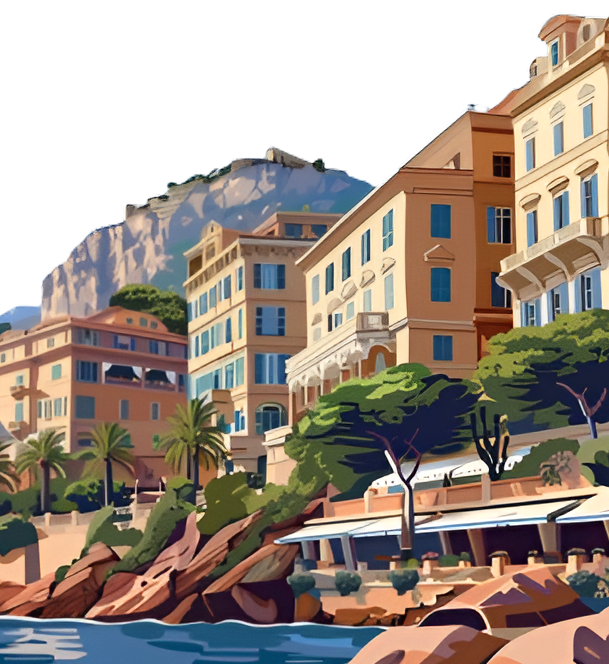
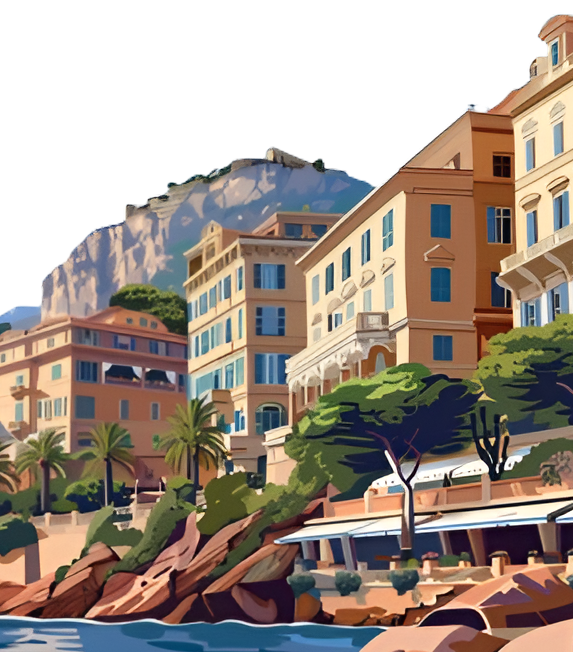
optimize the images size

diff --git a/src/components/City.tsx b/src/components/City.tsx
@@ -1,6 +1,14 @@
 "use client"
+import { Press_Start_2P } from 'next/font/google';
 import Image from 'next/image';
 import React, { useEffect, useRef } from 'react';
+
+const orbitron = Press_Start_2P({
+  weight: ["400"],
+  style: ["normal"],
+  subsets: ["latin"],
+})
+
 
 export const City = () => {
 
@@ -72,7 +80,7 @@ export const City = () => {
       <div className='hidden md:flex flex-col items-center justify-center w-full'>
         <Image
           ref={cityDesktop}
-          src={require("@/assets/monaco.png")}
+          src={require("@/assets/monaco.webp")}
           alt="greek town in andev page"
           className='flex w-full relative z-20'
         />
@@ -87,7 +95,7 @@ export const City = () => {
       <div className='md:hidden flex flex-col items-center justify-center w-full'>
         <Image
           ref={cityDesktop}
-          src={require("@/assets/monaco-mobile.png")}
+          src={require("@/assets/monaco-mobile.webp")}
           alt="greek town in andev page"
           className='flex w-full relative z-20'
         />
@@ -113,7 +121,7 @@ export const City = () => {
               </div>
 
               <div className='bg-black bg-opacity-90 flex items-center justify-center rounded-md mb-2'>
-                <p className='text-red-600 p-4 font-bold text-2xl lg:text-3xl'>090</p>
+                <p className={`text-red-600 p-4 font-bold text-2xl lg:text-3xl ${orbitron.className}`}>090</p>
               </div>
 
             </div>
